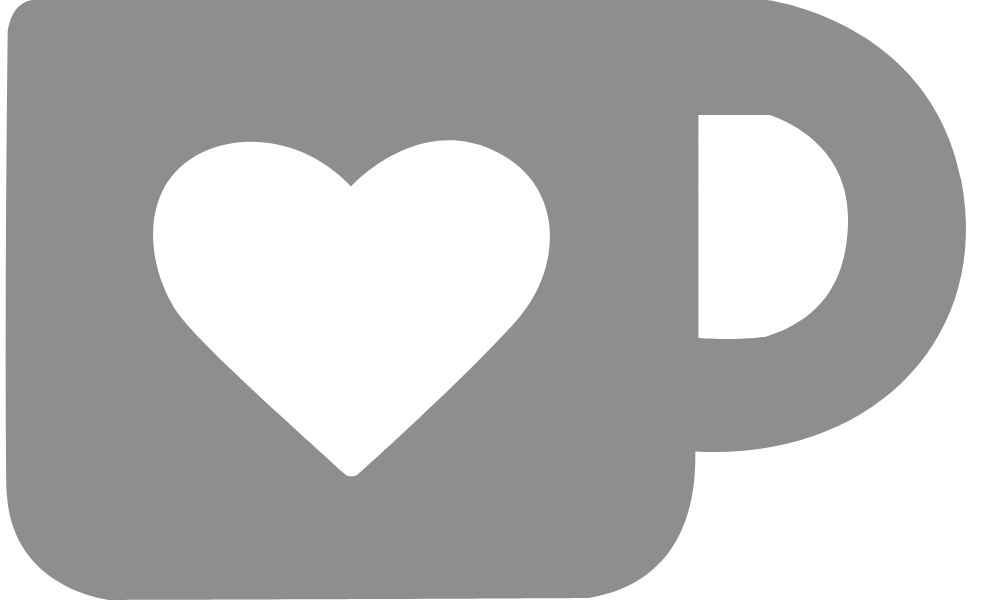
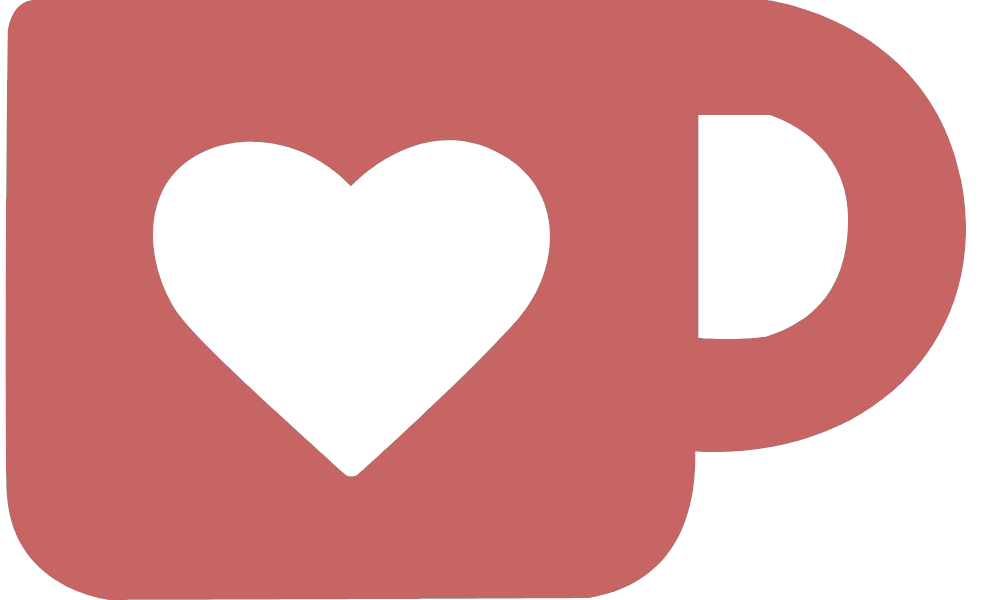
Summify 1.0.9

diff --git a/src/popup/style.css b/src/popup/style.css
@@ -1,3 +1,28 @@
+/* light mode colors */
+:root {
+    --background-color: rgb(248, 248, 248);
+    --button-background: #4169E1;
+    --default-background: #fff;
+    --border-color: #000;
+    --text-color: #000;
+    --favicon-background: #E6E6FA;
+    --word-count-label: #808080;
+    --scrollbar-color: #dcdceb;
+}
+
+/* dark mode colors */
+body.dark-mode {
+    --background-color: #1a1a1a;
+    --button-background: #4169E1;
+    --default-background: rgb(40, 40, 40);
+    --border-color: #dbdbdb;
+    --text-color: #fff;
+    --favicon-background: #45455a;
+    --word-count-label: #e4e4e4;
+    --scrollbar-color: #40404d;
+}
+
+
 @font-face {
     font-family: 'Poppins-Medium';
     src: url('Poppins/Poppins-Medium.ttf');
@@ -21,18 +46,13 @@
 * {
     padding: 2px;
     padding-top: 0px;
-    
-    
+    transition: 0.25s ease-in-out !important;
 }
 
 body {
     height: 520px;
     width: 320px;
-    background-color: rgb(248, 248, 248);
-}
-
-#summarize-button:hover {
-    background-color: rgb(50, 50, 50);
+    background-color: var(--background-color);
 }
 
 .header {
@@ -72,8 +92,8 @@ body {
     width: 100%;
     height: 35px;
     border-radius: 5px;
-    background-color: #4169E1;
-    color: white;
+    background-color: var(--button-background);
+    color: #fff;
     border: none;
     cursor: pointer;
     display: flex;
@@ -142,7 +162,7 @@ body {
 .summary-parent {
     display: flex;
     flex-direction: column;
-    background: white;
+    background: var(--default-background);
     margin-top: 10px;
     margin-bottom: 10px;
     padding: 5px;
@@ -156,8 +176,11 @@ body {
     font-family: Poppins-Normal;
     font-size: 13px;
     border: none;
-    background-color: white;
+    background-color: var(--default-background);
     height: 385px;
+    color: var(--text-color);
+    scrollbar-color: var(--scrollbar-color) var(--default-background);
+
 }
 
 #text-youtube {
@@ -165,13 +188,13 @@ body {
     font-family: Poppins-Normal;
     font-size: 12px;
     border: none;
-    background-color: white;
+    background-color: var(--default-background);
     height: 235px;
     display: none;
 }
 
 .summary-details {
-    background-color: white;
+    background-color: var(--default-background);
     display: flex;
     justify-content: space-between;
     max-height: 25px;
@@ -190,33 +213,22 @@ body {
 }
 
 #word-count-label {
-    background-color: white;
-    color: #808080;
+    background-color: var(--default-background);
+    color: var(--word-count-label);
     font-family: Poppins-Normal;
     font-size: 11px;
     padding-top: 3px;
 }
 
-#summary-type-label {
-    color: white;
-    font-family: Poppins-Normal;
-    font-size: 10px;
-    background-color: #47bdc3;
-    border-radius: 5px;
-    padding: 2px 4px;
-    margin-left: 4px;
-}
-
-
 .summary-details button {
     border: none;
-    background-color: white;
+    background-color: var(--default-background);
     margin-top: 4.5px;
 }
 
 .summary-details  button img {
     max-height: 13px;
-    background-color: white;
+    background-color: var(--default-background);
     max-width: 13px;
 }
 
@@ -235,7 +247,7 @@ body {
     border-radius: 5px;
     padding: 0;
     align-items: center;
-    background-color: #E6E6FA;
+    background-color: var(--favicon-background);
     max-width: 65%;
 }
 
@@ -244,7 +256,7 @@ body {
     max-width: 13px;
     border-radius: 10px;
     margin-left: 5px;
-    background-color: #E6E6FA;
+    background-color: var(--favicon-background);
 }
 
 .webpage p {
@@ -253,9 +265,9 @@ body {
     text-overflow: ellipsis;
     font-family: Poppins-Normal;
     white-space: nowrap;
-    color: black;
+    color: var(--text-color);
     margin-left: 2px;
-    background-color: #E6E6FA;
+    background-color: var(--favicon-background);
     margin-right: 5px;
 }
 
@@ -290,11 +302,11 @@ body {
     width: 150px;
     height: 35px;
     font-size: 12px;
-    color: "black";
+    color: var(--border-color);
     padding-left: 7.5px;
     background: transparent;
-    border: 1.5px solid "black";
-    outline: none;
+    border: 1.5px solid; 
+    outline: var(--border-color);
     border-radius: 5px;
     font-family: Poppins-Normal;
 }
@@ -316,8 +328,9 @@ body {
 .length-parent select:valid~label {
     top: 0;
     font-size: 9.5px;
-    background: rgb(248, 248, 248);
-    transition: 0.5s ease;
+    background: var(--background-color);
+    /* transition: 0.5s ease; */
+    color: var(--border-color);
     font-family: Poppins-Normal;
 }
 
@@ -344,10 +357,10 @@ body {
     width: 130px;
     height: 35px;
     font-size: 12px;
-    color: "black";
+    color: var(--border-color);
     padding-left: 7.5px;
     background: transparent;
-    border: 1.5px solid "black";
+    border: 1.5px solid var(--border-color);
     outline: none;
     border-radius: 5px;
     font-family: Poppins-Normal;
@@ -369,8 +382,13 @@ body {
 .summary-type-parent select:valid~label {
     top: 0;
     font-size: 9.5px;
-    background: rgb(248, 248, 248);
-    transition: 0.5s ease;
+    background: var(--background-color);
+    /* transition: 0.5s ease; */
     font-family: Poppins-Normal;
+    color: var(--border-color);
+}
+
+#toggle-mode:hover {
+    cursor: pointer;
 }
 

diff --git a/src/popup/gui-changes.js b/src/popup/gui-changes.js
@@ -1,37 +1,70 @@
 document.getElementById("summary-type-select").addEventListener("change", changeLanguage)
 document.getElementById("summary-length-select").addEventListener("change", changeSummaryType);
 
-chrome.runtime.onMessage.addListener(function(request, sender, sendResponce) {
-    
-  if (request.action === 'getLanguage'){
-    chrome.storage.local.get(['Language'], function(result) {
-      if (result['Language'] == ""){
-        result = "english"
-        document.getElementById("summary-type-select").value = result;
-        changeLanguage();
-      } else {
-        document.getElementById("summary-type-select").value = result['Language'];
-        changeLanguage();
-      }
-    }); 
-  } else {
-    chrome.storage.local.get(['summaryType'], function(result) {
+chrome.runtime.onMessage.addListener(function(request) {
+  
+  switch(request.action){
+    case 'getLanuage': {
+      chrome.storage.local.get(['Language'], function(result) {
+        if (!result['Language']){
+          result = "english"
+          document.getElementById("summary-type-select").value = result;
+          changeLanguage();
+        } else {
+          document.getElementById("summary-type-select").value = result['Language'];
+          changeLanguage();
+        }
+      }); 
+      break;
+    }
+    case 'getMode': {
+      chrome.storage.local.get(['Mode'], function(result) {
+        if (!result['Mode']){
+          chrome.storage.local.set({ 'Mode': 'Light' }, function() {});
+          if (document.body.classList[0] == 'dark-mode'){
+            document.body.classList.toggle('dark-mode');
+            document.getElementById('summary-logo').src = "images/summifyLogoDark.png";
+            document.getElementById('modeIcon').src = "images/lightModeIcon.png";
+          }
+        } else if (result['Mode'] == 'Light') {
+          if (document.body.classList[0] == 'dark-mode'){
+            document.body.classList.toggle('dark-mode');
+            document.getElementById('summary-logo').src = "images/summifyLogoDark.png";
+            document.getElementById('modeIcon').src = "images/lightModeIcon.png";
+          }
+        } else if (result['Mode'] == 'Dark') {
+          if (document.body.classList[0] != 'dark-mode'){
+            document.body.classList.toggle('dark-mode');
+          }
+          document.getElementById('summary-logo').src = "images/summifyLogoDark.png";
+          document.getElementById('modeIcon').src = "images/lightModeIcon.png";
+        }
+      }); 
+      break;
+    }
+    default: {
+      chrome.storage.local.get(['summaryType'], function(result) {
         // console.log(resul);
-        document.getElementById("summary-length-select").value = result["summaryType"];
-        changeSummaryType();
-    });
+        if (result['summaryType']){
+          document.getElementById("summary-length-select").value = result["summaryType"];
+          changeSummaryType();
+        } else {
+          document.getElementById("summary-length-select").value = "Brief";
+          changeSummaryType();
+        }
+      });
+    }
   }
+  
 });
 
 function changeSummaryType() {
   const summaryType = document.getElementById("summary-length-select");
 
   if (summaryType.value == "Brief"){
-    chrome.storage.local.set({ summaryType: summaryType.value }, function() {
-    });
+    chrome.storage.local.set({ summaryType: summaryType.value }, function() {});
   } else {
-    chrome.storage.local.set({ summaryType: summaryType.value }, function() {
-    });
+    chrome.storage.local.set({ summaryType: summaryType.value }, function() {});
   }
 }
 
@@ -162,3 +195,18 @@ function calculateWordCount(language) {
   document.getElementById("word-count-label").innerHTML = wordCount + " " + language;
 
 }
+
+//toggle light/dark mode
+const button = document.getElementById("toggle-mode");
+button.addEventListener('click', () => {
+  document.body.classList.toggle('dark-mode');
+  if (document.body.classList[0] == 'dark-mode'){
+    chrome.storage.local.set({ 'Mode': 'Dark' }, function() {});
+    document.getElementById('summary-logo').src = "images/summifyLogoDark.png";
+    document.getElementById('modeIcon').src = "images/lightModeIcon.png";
+  } else {
+    chrome.storage.local.set({ 'Mode': 'Light' }, function() {});
+    document.getElementById('summary-logo').src = "images/summifyLogoLight.png";
+    document.getElementById('modeIcon').src = "images/darkModeIcon.png";
+  }
+});

diff --git a/src/popup/summify.html b/src/popup/summify.html
@@ -4,8 +4,9 @@
 <body>
 
     <div class="header"> 
-        <img src="images/Summify_Logo.png" id="summary-logo" alt="Summify Logo">
+        <img src="images/summifyLogoLight.png" id="summary-logo" alt="Summify Logo">
         <div class="external-links-parent">
+            <a id="toggle-mode"><img src="images/darkModeIcon.png" id="modeIcon" alt="Toggle Mode"></a>
             <a href="https://github.com/maxklema/Summify" target="_blank"><img src="images/githubLogo.png"  alt="Summify Repository"></a>
             <a href="https://ko-fi.com/summify" target="_blank"><img src="images/kofiIcon.png" alt="Donate to Summify" id="kofiCup"></a>
         </div>
@@ -14,7 +15,7 @@
     <div class="settings-parent">
         <div class="length-parent">
             <select name="length" id="summary-length-select" >
-                <option value="Brief" id="brief-summary">Snapshot Summary</option>
+                <option value="Brief" id="brief-summary">Brief Summary</option>
                 <option value="Detailed" id="detailed-summary">Detailed Summary</option>
             </select>
             <label for="length" id="summary-length-label">Length</label>                
@@ -56,10 +57,6 @@
         <img id="loading-gif" src="images/loading.gif" alt="loading">
     </button>
     <script src="../../dist/bundle.js"></script>
-
-
-
-
 </body>
 
 

diff --git a/src/content/grabWebURL.js b/src/content/grabWebURL.js
@@ -9,4 +9,5 @@ var content = {
 chrome.runtime.sendMessage({ action: 'updatePopup', textContent: JSON.stringify(content) }, function() {
     // This callback function will be called after the 'getLanguage' message is sent
     chrome.runtime.sendMessage({ action: 'getLanguage' });
+    chrome.runtime.sendMessage({ action: 'getMode' });
 });
